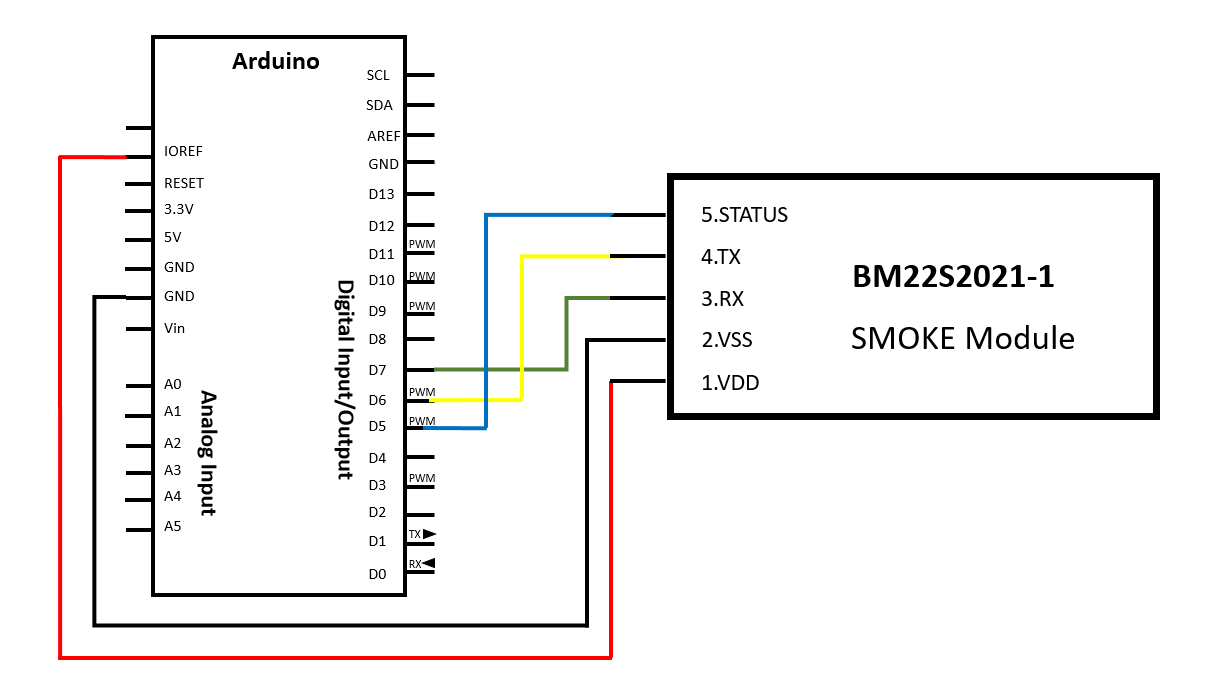
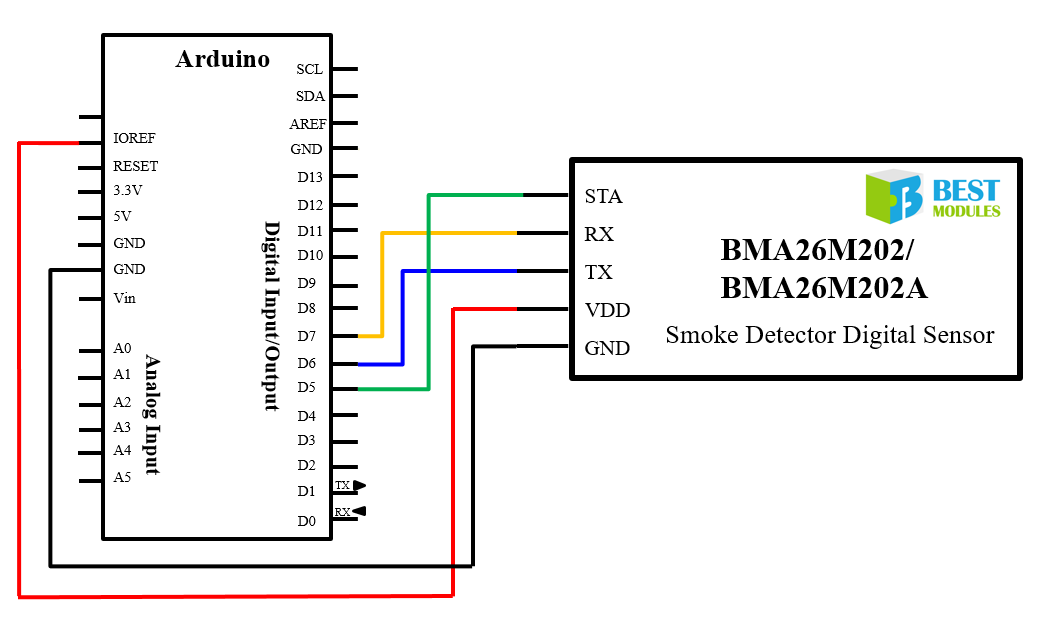
Add files via upload

Changed region(s): [[0.0, 0.0305, 0.6437, 0.9759], [0.5517, 0.244, 0.9808, 0.61], [0.5211, 0.488, 0.613, 0.5185]]

diff --git a/src/BM22S2021-1.cpp b/src/BM22S2021-1.cpp
@@ -1,9 +1,8 @@
 /*****************************************************************
   File:             BM22S2021-1cpp
-  Author:           BESTMODULES
+  Author:           BEST MODULES CORP.
   Description:      Communication and operation function with module
-  History：
-  V1.0.1-- initial version；2022-11-15；Arduino IDE : v1.8.13
+  Version:          V1.0.2   -- 2025-05-29
 ******************************************************************/
 #include  "BM22S2021-1.h"
 
@@ -40,8 +39,8 @@ BM22S2021_1::BM22S2021_1(uint8_t statusPin,uint8_t rxPin, uint8_t txPin)
 }
 /**********************************************************
 Description: Set serial baud rate
-Parameters:  uartBaud：9600(default)
-Return:      none
+Parameters:  void
+Return:      void
 Others:
 **********************************************************/
 void BM22S2021_1::begin()
@@ -58,8 +57,8 @@ void BM22S2021_1::begin()
 }
 /**********************************************************
 Description: Get STATUS pin level
-Parameters: None
-Return: None
+Parameters: void
+Return: STA pin Level
 Others: None
 **********************************************************/
 uint8_t BM22S2021_1::getSTATUS()
@@ -70,7 +69,7 @@ uint8_t BM22S2021_1::getSTATUS()
 /**********************************************************
 Description: Query the FW version
              The FW version number and production date are both 8421 BCD code.
-Parameters:  none
+Parameters:  void
 Return:      0:read error
              data:16bit FWVer
 Others:
@@ -143,7 +142,7 @@ uint8_t BM22S2021_1::requestInfoPackage(uint8_t buff[])
 }
 /**********************************************************
 Description: Determine whether it is the data packet sent by the module
-Parameters:  none
+Parameters:  void
 Return:      1:Have 41/21 data bytes
              0:no data
 Others:     
@@ -257,7 +256,7 @@ if(autoTxMode==0x81)
 /**********************************************************
 Description: Read the data automatically output by the module
 Parameters:   buff:41/21 byte
-Return:    
+Return:      void
 Others:     
 **********************************************************/
 void BM22S2021_1::readInfoPackage(uint8_t array[])
@@ -354,7 +353,7 @@ uint8_t BM22S2021_1::readRunningVariables(uint8_t addr)
 }
 /**********************************************************
 Description: Get the current serial port automatic output status
-Parameters:  none   
+Parameters:  void   
 Return:      0x80 Detailed data is automatically output for each smoke detection
              0x81 only Simple data output
              0x00 does not automatically output data;
@@ -369,7 +368,7 @@ uint8_t BM22S2021_1::getAutoTx()
 }
 /**********************************************************
 Description: Get the level that the STATUS pin will output under the current alarm state
-Parameters:  none   
+Parameters:  void  
 Return:      0x80 HIGH level
              0x00 LOW level
 Others:
@@ -383,7 +382,7 @@ uint8_t BM22S2021_1::getStatusPinActiveMode()
 }
 /**********************************************************
 Description: get T0A calibration Top limits
-Parameters:  none
+Parameters:  void
              bottomlimit:Air calibration lower limit
 Return:      toplimit:Air calibration upper limit
 Others:
@@ -397,8 +396,7 @@ uint8_t BM22S2021_1::getT0ATopLimit()
 }
 /**********************************************************
 Description: get T0A calibration Top limits
-Parameters:  none
-             
+Parameters:  void
 Return:      bottomlimit:Air calibration lower limit
 Others:
 **********************************************************/
@@ -411,7 +409,7 @@ uint8_t BM22S2021_1::getT0ABottomLimit()
 }
 /**********************************************************
 Description: get T0B calibration Top limits
-Parameters:  none
+Parameters:  void
              bottomlimit:Air calibration lower limit
 Return:      toplimit:Air calibration upper limit
 Others:
@@ -425,8 +423,7 @@ uint8_t BM22S2021_1::getT0BTopLimit()
 }
 /**********************************************************
 Description: get T0B calibration Top limits
-Parameters:  none
-             
+Parameters:  void
 Return:      bottomlimit:Air calibration lower limit
 Others:
 **********************************************************/
@@ -439,7 +436,7 @@ uint8_t BM22S2021_1::getT0BBottomLimit()
 }
 /**********************************************************
 Description: get the alarm threshold of T0A channel
-Parameters:  none   
+Parameters:  void   
 Return:      Threshold:12bit valid data
 Others:
 **********************************************************/
@@ -454,7 +451,7 @@ uint16_t BM22S2021_1::getT0AThreshold()
 }
 /**********************************************************
 Description: get the alarm threshold of T0B channel
-Parameters:  none   
+Parameters:  void   
 Return:      Threshold:12bit valid data
 Others:
 **********************************************************/
@@ -469,7 +466,7 @@ uint16_t BM22S2021_1::getT0BThreshold()
 }
 /**********************************************************
 Description: Detection cycle of smoke-free environment equipment in standby, unit: s;
-Parameters:  none   
+Parameters:  void  
 Return:      cycle:time
 Others:
 **********************************************************/
@@ -517,7 +514,7 @@ uint8_t BM22S2021_1::calibrateModule()
 }
 /**********************************************************
 Description: Send instructions to reset the chip in the module
-Parameters:  none
+Parameters:  void
 Return:      1: module data acquisition failed, there is no correct feedback value
              0: Module data obtained successfully
 Others:     
@@ -550,7 +547,7 @@ Description: Send command to restore the module to factory settings
              4.Standby smoke detection cycle :  0x08
              5.Serial port automatic output:  0x80
              6.Alarm output level:0x80 HIGH
-Parameters:  none
+Parameters:  void
 Return:      1: Module setting failed without correct feedback value
              0: Module set successfully
 Others:
@@ -861,8 +858,8 @@ void  BM22S2021_1::wirteBytes(uint8_t wbuf[], uint8_t wlen)
 }
 /**********************************************************
 Description: eliminate buff data
-Parameters:  none
-Return:      none    
+Parameters:  void
+Return:      void    
 Others:      
 **********************************************************/ 
 

diff --git a/src/BM22S2021-1.h b/src/BM22S2021-1.h
@@ -1,9 +1,8 @@
 /*****************************************************************
 File:             BM22S2021-1.h
-Author:           BESTMODULES
+Author:           BEST MODULES CORP.
 Description:      Define classes and required variables
-History：         
-V1.0.1-- initial version；2022-11-15；Arduino IDE : v1.8.13
+Version:          V1.0.2   -- 2025-05-29
 ******************************************************************/
 
 #ifndef  _BM22S2021_h_

diff --git a/README.md b/README.md
@@ -5,7 +5,7 @@
 BM22S2021-1
 ===========================================================
 
-The Best Modules BM22S2021-1 is a smoke detector digital sensor, which uses the UART communication method. This document provides the description of the BM22S2021-1 Arduino Lib functions and how to install the Arduino Lib. The example uses BMA26M202 module to demonstrate the functions of alarm detection, smoke reading and air calibration etc.
+The Best Modules BM22S2021-1 is a smoke detector digital sensor, which uses the UART communication method. This document provides the description of the BM22S2021-1 Arduino Lib functions and how to install the Arduino Lib. The example uses BMA26M202/BMA26M202A module to demonstrate the functions of alarm detection, smoke reading and air calibration etc.
 
 #### Applicable types:
 <div align=center>
@@ -14,6 +14,7 @@ The Best Modules BM22S2021-1 is a smoke detector digital sensor, which uses the 
 |:---------:|:----------------------------:|
 |BM22S2021-1|Smoke detector digital sensor|
 |BMA26M202  | On-board BM22S2021-1 sensor |
+|BMA26M202A | On-board BM22S2021-1 sensor |
 
 </div> 
 
@@ -30,12 +31,15 @@ Repository Contents
 Documentation 
 -------------------
 
-* **[BM22S2021-1 Arduino Library V1.0.1 Description v100]( https://www.bestmodulescorp.com/bm22s2021-1.html#tab-product2 )** - Arduino Library Description.
+* **[BM22S2021-1 Arduino Library Description](https://www.bestmodulescorp.com/bm22s2021-1.html)** - Arduino Library Description.
 
 Version History  
 -------------------
 
-* **V1.0.1** - Initial public release.
+* **V1.0.1**
+&emsp;&emsp;- Initial public release.
+* **V1.0.2**  
+&emsp;&emsp;- Add applicable models: BMA26M202A; 
 
 License Information
 -------------------
@@ -44,8 +48,8 @@ This product is _**open source**_!
 
 Please review the LICENSE.md file for license information. 
 
-If you have any questions or concerns on licensing, please contact technical support on our BESTMODULES Email:service@bestmodulescorp.com
+If you have any questions or concerns on licensing, please contact technical support on our BEST MODULES CORP. Email:service@bestmodulescorp.com
 
 Distributed as-is; no warranty is given.
 
-BESTMODULES
+BEST MODULES CORP.
